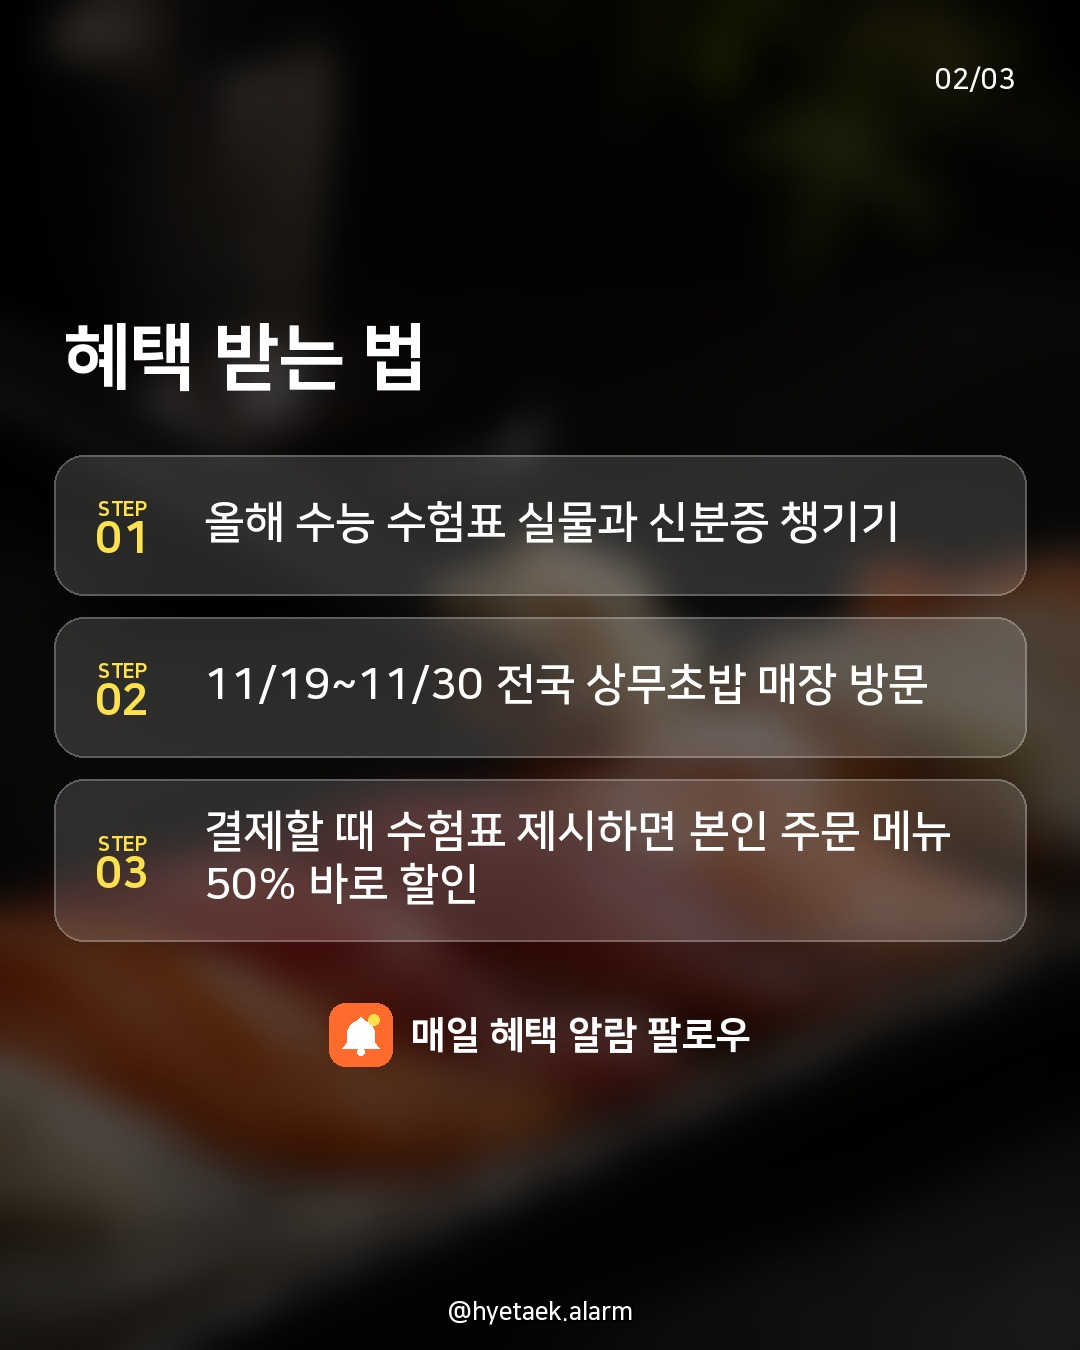
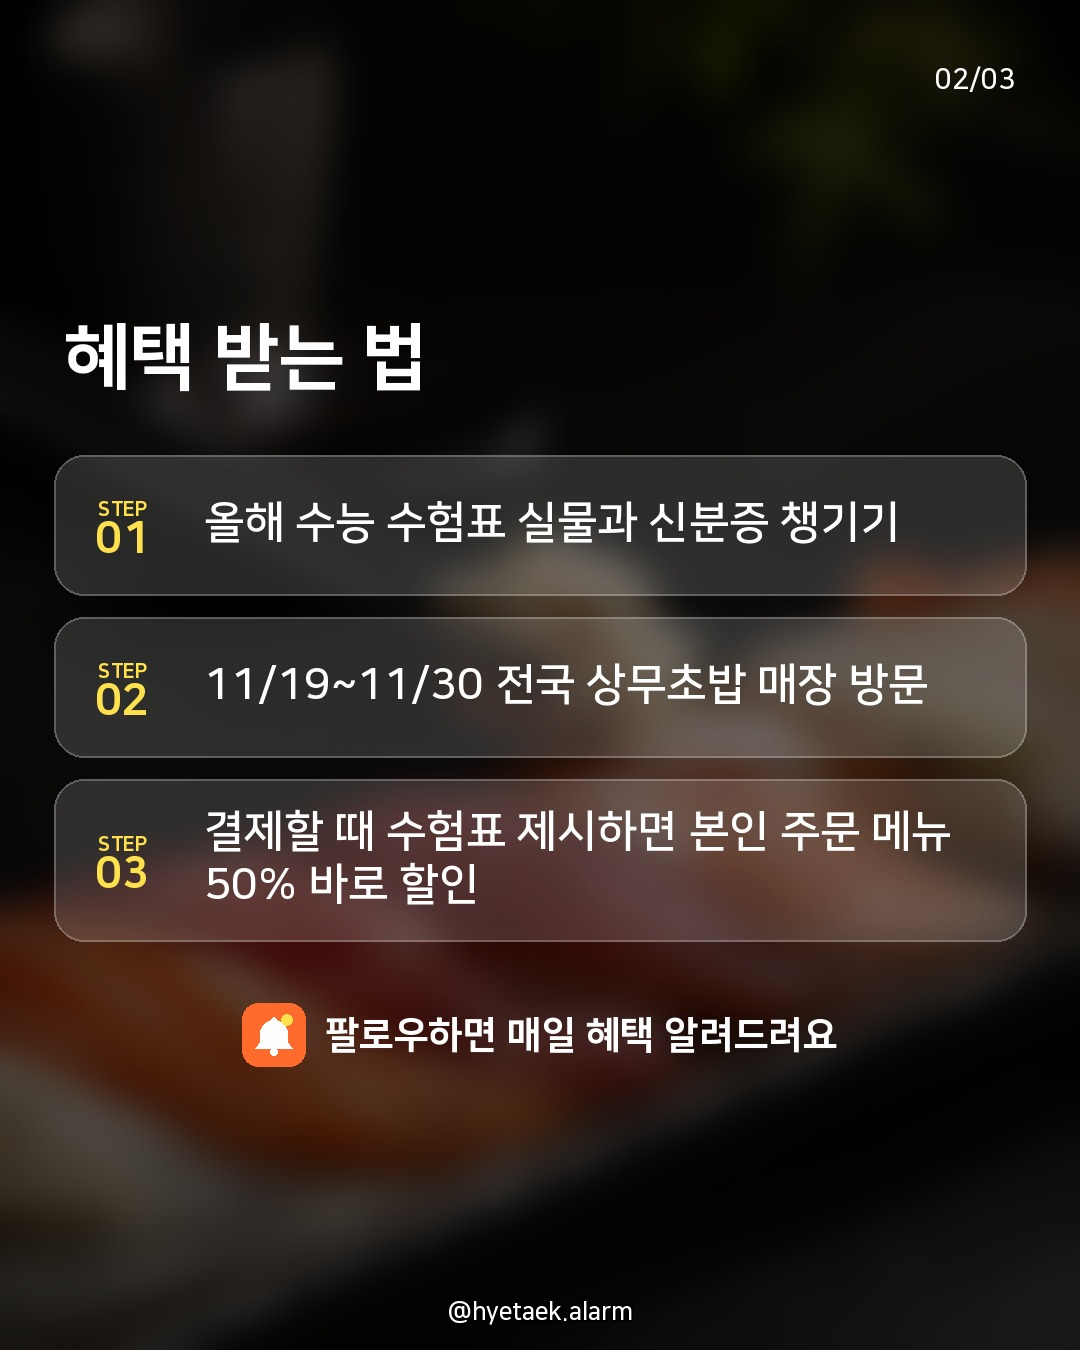
2장 팔로우 문구: '팔로우하면 매일 혜택 알려드려요'
Claude-Session: https://claude.ai/code/session_013eU9upJ36tdqKzB4UjrVYH

Changed region(s): [[0.2139, 0.7156, 0.7944, 0.8089]]

diff --git a/CLAUDE.md b/CLAUDE.md
@@ -22,6 +22,6 @@
 
 ## 그 밖에
 - 혜택·할인 정보 게시물(통신사·카드·브랜드 이벤트·쿠폰 등 모든 혜택)은 스크린데일리가 아닌 **별도 채널 '혜택알람'(@hyetaek.alarm)** 이다. `channel: deals` 를 꼭 적는다 (이름·아이디·해시태그·마지막 장이 그 채널 것으로 바뀜, 업로드 계정도 다름).
-- 혜택알람은 **혜택 하나당 캐러셀 3장 고정**: 01 사진 표지(`cover_style: photo`, 굵은 고딕 타이포만(스티커·상자 없음), 후킹용: title 첫 줄 브랜드·둘째 줄 혜택 핵심만, 혜택 줄은 짧게 예: '수험생 반값') → 02 혜택 받는 법(`type: steps`, 배경은 표지 사진을 흐리고 어둡게 + 흰 글씨, STEP 3개 + 그 아래 채널 아이콘·'매일 혜택 알람 팔로우' 한 줄(자동, `outro.inline_follow`). 기간·조건·출처는 caption 에) → 03 팔로우 카드(모든 캐러셀 공용: 검정 배경, 프로필과 같은 오렌지 채널 아이콘만 색). 01·02장에는 브랜드 색 배경을 쓰지 않는다(어떤 사진에도 어울리게). 01·02장 하단 가운데에 채널 주소 워터마크(퍼가기 방지), 03장은 큰 아이디가 있어 생략. 공식 확인 안 된 조건은 카드에 쓰지 않는다. 다른 할인 계정의 디자인·문구·스티커를 그대로 따라 하지 않는다. 예시 `drafts/deal_sangmu_1119/`
+- 혜택알람은 **혜택 하나당 캐러셀 3장 고정**: 01 사진 표지(`cover_style: photo`, 굵은 고딕 타이포만(스티커·상자 없음), 후킹용: title 첫 줄 브랜드·둘째 줄 혜택 핵심만, 혜택 줄은 짧게 예: '수험생 반값') → 02 혜택 받는 법(`type: steps`, 배경은 표지 사진을 흐리고 어둡게 + 흰 글씨, STEP 3개 + 그 아래 채널 아이콘·'팔로우하면 매일 혜택 알려드려요' 한 줄(자동, `outro.inline_follow`). 기간·조건·출처는 caption 에) → 03 팔로우 카드(모든 캐러셀 공용: 검정 배경, 프로필과 같은 오렌지 채널 아이콘만 색). 01·02장에는 브랜드 색 배경을 쓰지 않는다(어떤 사진에도 어울리게). 01·02장 하단 가운데에 채널 주소 워터마크(퍼가기 방지), 03장은 큰 아이디가 있어 생략. 공식 확인 안 된 조건은 카드에 쓰지 않는다. 다른 할인 계정의 디자인·문구·스티커를 그대로 따라 하지 않는다. 예시 `drafts/deal_sangmu_1119/`
 - 초안·시안은 `drafts/` 에 `draft: true` 로 만든다. `queue/` 에 넣으면 예약 시간에 자동 업로드된다.
 - 자동 업로드는 main 브랜치의 `queue/` 만 본다.
